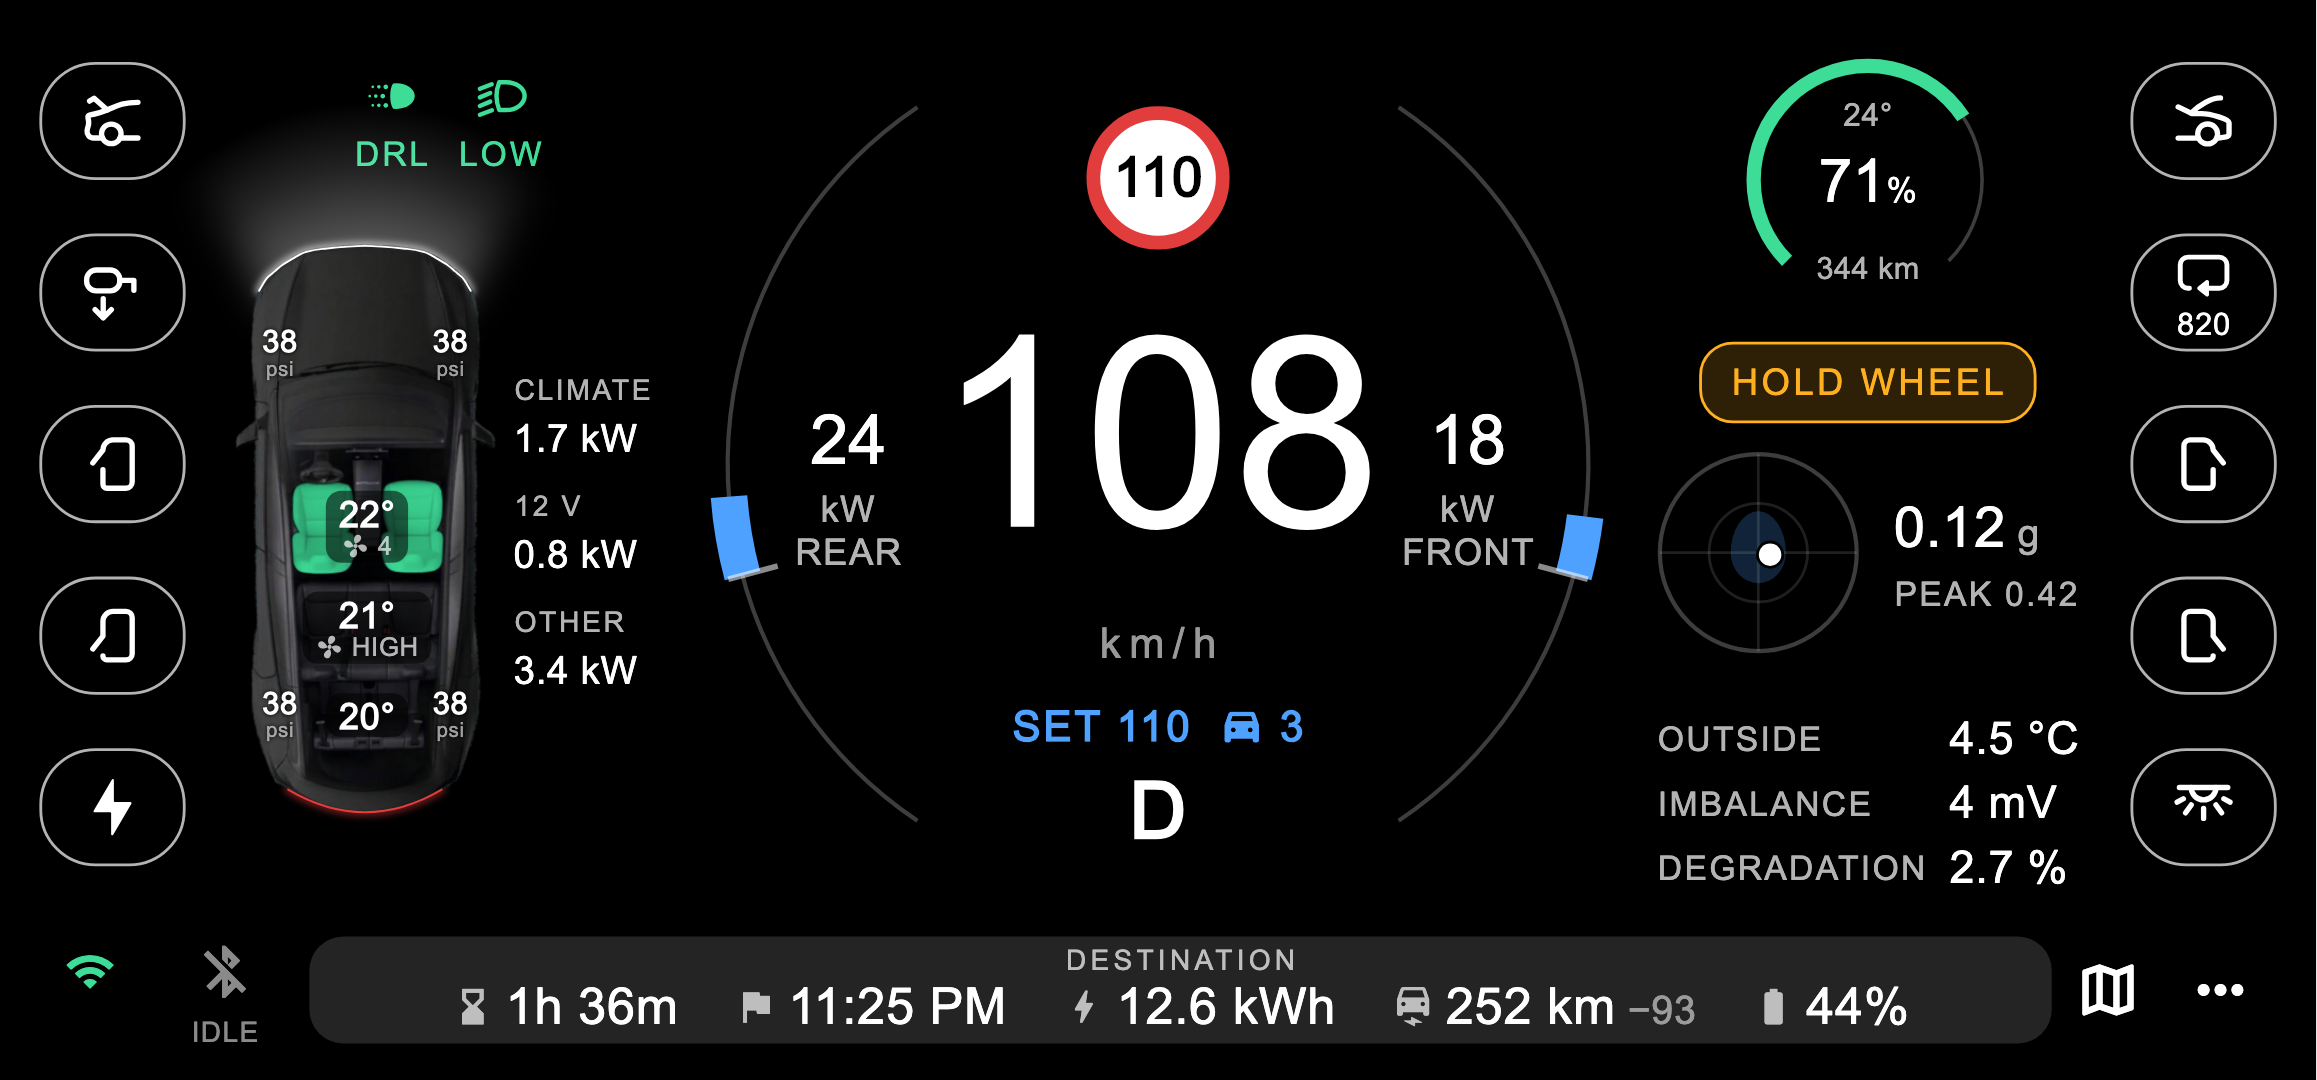
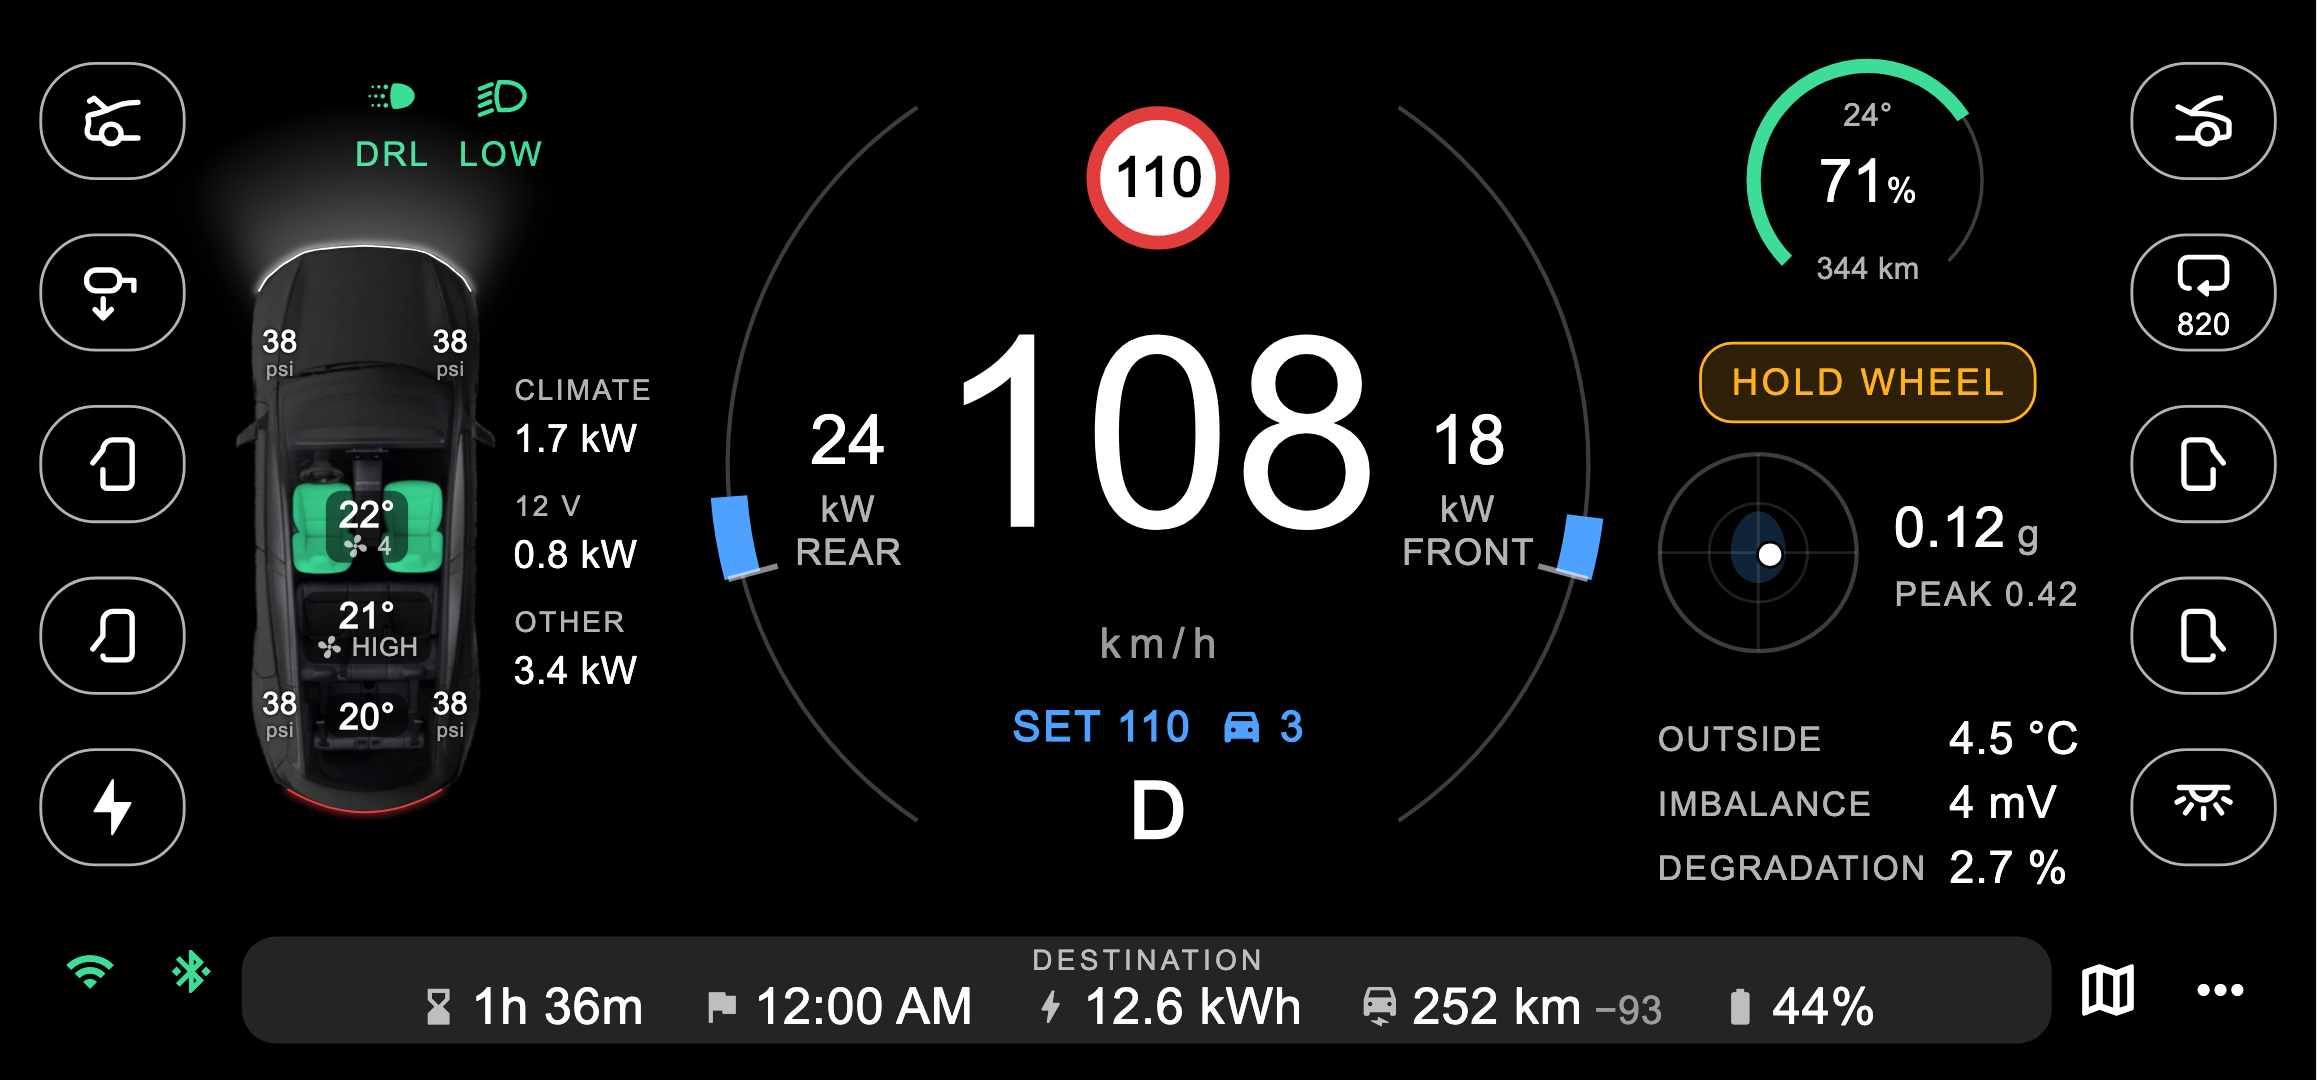
Screenshots with Bluetooth connected and AP READY; README: built for Juniper
The renders' Commander is connected as in the car (WiFi live: lean and
settled; Bluetooth only: live), and AP READY shows when not on Autopilot.
The README says what the app is built for (Model Y Juniper, 5 or 7 seats,
RWD or AWD) and what it is tested on (a 7-seater).

Changed region(s): [[0.1864, 0.8556, 0.839, 0.9472], [0.0621, 0.8556, 0.1554, 0.9778]]

diff --git a/test/dash_shot_test.dart b/test/dash_shot_test.dart
@@ -51,6 +51,7 @@ final _shots = <String, (Size, Panda Function())>{
       ..socPct = 64
       ..rangeMi = 193
       ..speedLimit = 50
+      ..autopilot = 'AP READY'
       ..lowBeam = true
       ..outsideC = -1.5
       ..washerLow = true
@@ -147,6 +148,7 @@ final _shots = <String, (Size, Panda Function())>{
       ..socPct = 52
       ..rangeMi = 158
       ..speedLimit = 50
+      ..autopilot = 'AP READY'
       ..lowBeam = true
       ..outsideC = 12
       ..packTempC = 27
@@ -180,6 +182,7 @@ final _shots = <String, (Size, Panda Function())>{
     ..socPct = 77
     ..rangeMi = 231
     ..speedLimit = 70
+    ..autopilot = 'AP READY'
     ..outsideC = 16
     ..packTempC = 29
     ..regenMaxKw = 70
@@ -243,7 +246,7 @@ final _shots = <String, (Size, Panda Function())>{
 /// it is linked to the car, so the route comes whole.
 final _bts = <String, Commander Function()>{
   'bluetooth-only': () => Commander()
-    ..ready = true
+    ..show(BtLink.full, 'live') // all the car data: no WiFi stream
     ..navDest = 'Eiffel Tower, Paris'
     ..navMiles = 31.1
     ..navMinutes = 38
@@ -263,7 +266,11 @@ void main() {
           theme: kTheme,
           debugShowCheckedModeBanner: false,
           home: RepaintBoundary(
-              key: key, child: DashPage(demo: car(), bt: _bts[name]?.call() ?? Commander()))));
+              key: key,
+              child: DashPage(
+                  demo: car(),
+                  // As in the car: connected, asking only what WiFi lacks.
+                  bt: _bts[name]?.call() ?? (Commander()..show(BtLink.lean, 'ready'))))));
       for (var i = 0; i < 20; i++) {
         await t.pump(const Duration(milliseconds: 16));
       }

diff --git a/lib/commander.dart b/lib/commander.dart
@@ -784,9 +784,17 @@ class Commander extends ChangeNotifier {
     return id;
   }
 
-  /// Puts the link in a state, for tests and screenshots.
+  /// Puts the link in a state, for tests and screenshots: a connected one
+  /// (buttons, lean, full) as a session at that level would.
   @visibleForTesting
-  void show(BtLink l, String s, [DateTime? until]) => _set(l, s, until);
+  void show(BtLink l, String s, [DateTime? until]) {
+    final level = switch (l) { BtLink.buttons => _none, BtLink.lean => _lean, BtLink.full => _full, _ => null };
+    if (level != null) {
+      ready = true;
+      _level = level;
+    }
+    _set(l, s, until);
+  }
 
   void _set(BtLink l, String s, [DateTime? until]) {
     _link = l;

diff --git a/README.md b/README.md
@@ -1,8 +1,9 @@
 # Tesla Dash
 
 A landscape driver's display for a phone mounted behind the wheel of a
-Tesla Model Y (built for a 2026 Juniper 7-seater), fed by an Enhauto
-**S3XY Commander**. Flutter; Android first, iOS works too.
+Tesla Model Y, fed by an Enhauto **S3XY Commander**. Built for the Model Y
+Juniper (2025 on), 5 or 7 seats, rear- or all-wheel drive; tested on a
+7-seater. Flutter; Android first, iOS works too.
 
 ![The dash on a cold morning: ice on the road, a cold pack capping regen, a third-row seat unbuckled](docs/screenshots/cold-morning.png)
 
